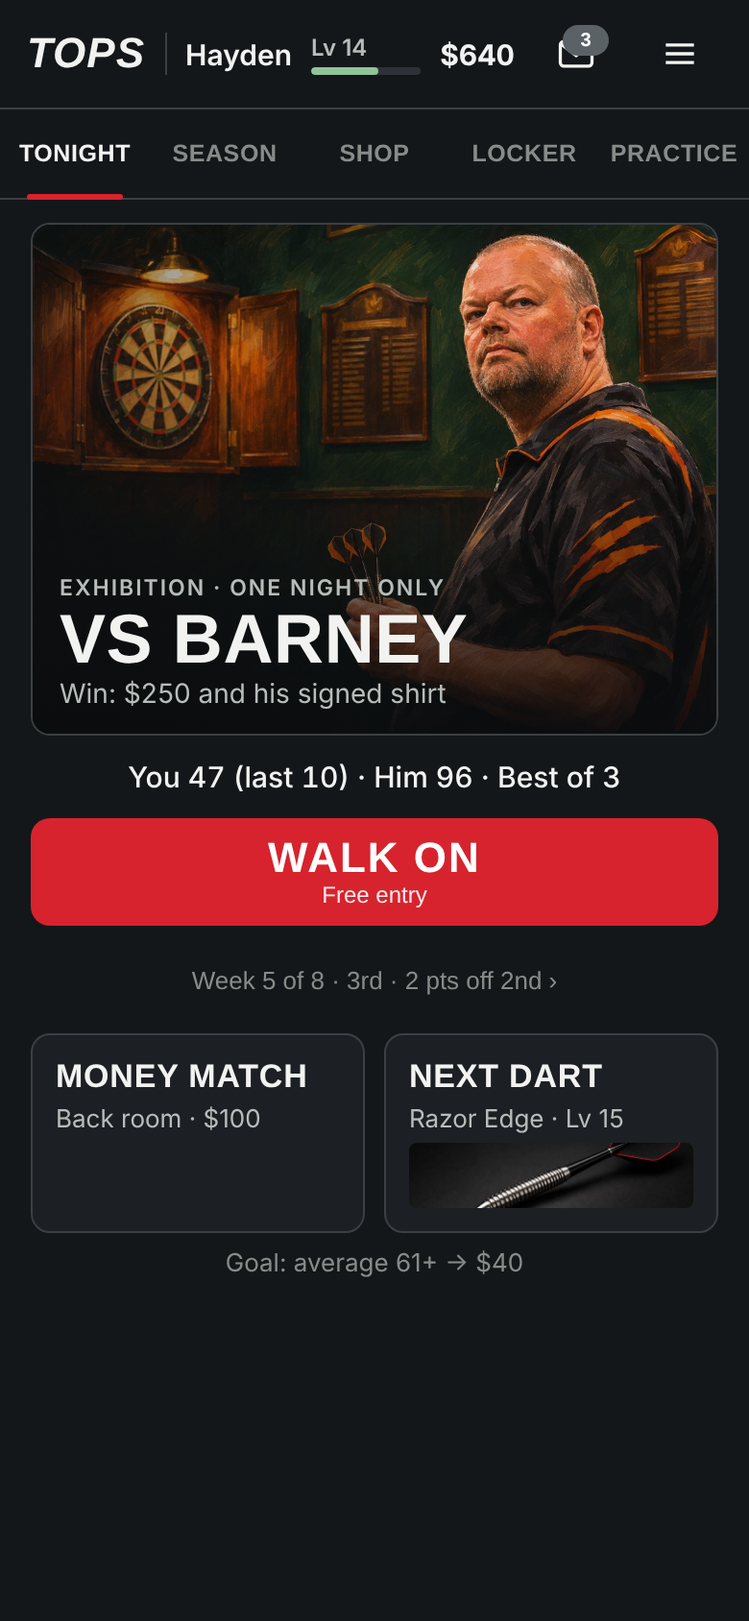
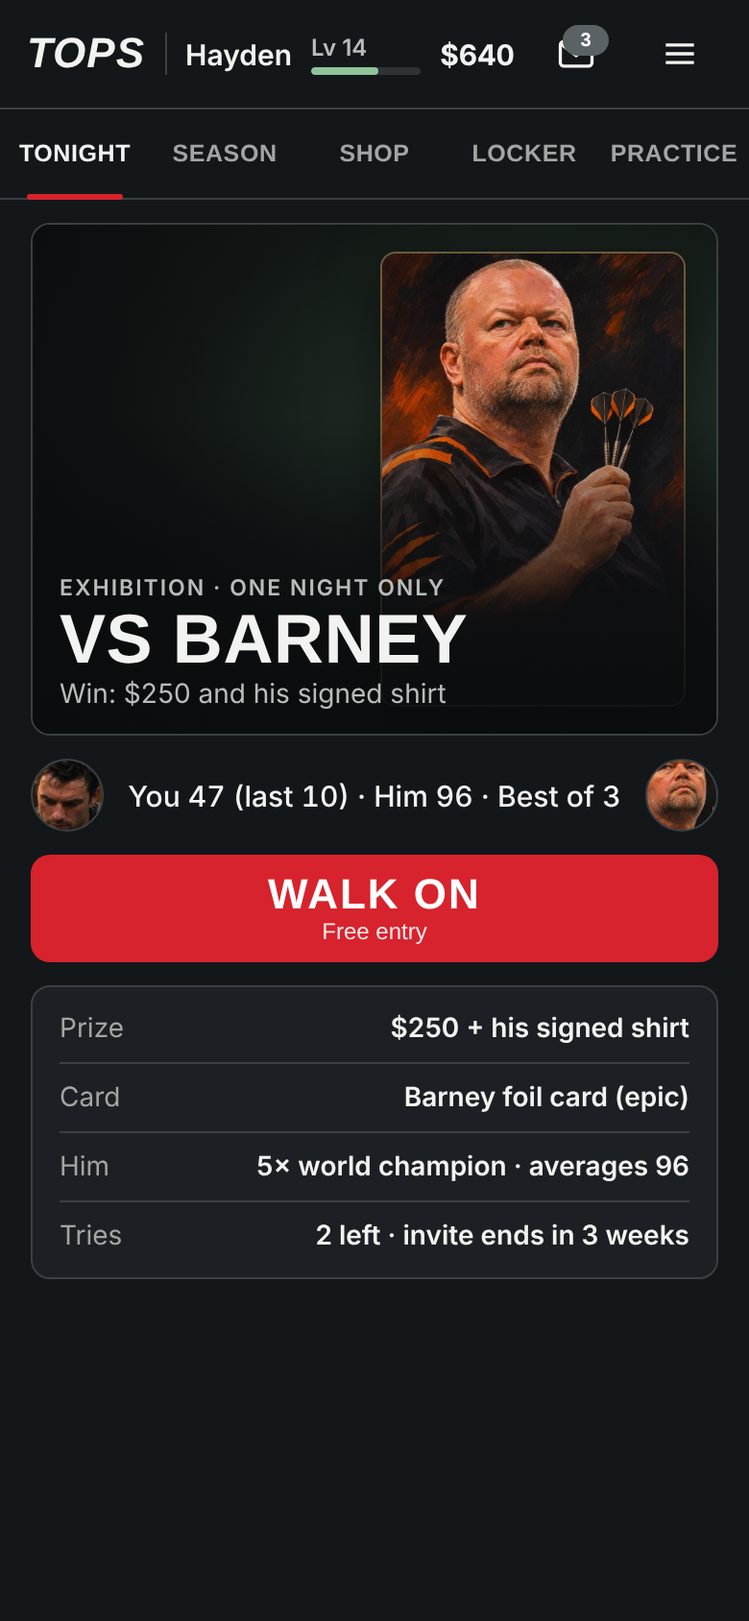
EXP-UX v6: ChatGPT r1 (8.1) fixes: researched real-dart product shots, compare vs equipped + EQUIPPED state, Locker opens on Loadout (level, stats, kit), exhibition-specific Tonight, player face in head-to-head, loss summary + improvement cue, reward count-up, ink3 lifted
Claude-Session: https://claude.ai/code/session_01WmQEKYuzjKWgLqY2q8YZP3

diff --git a/wip/ux/proto/index.html b/wip/ux/proto/index.html
@@ -6,7 +6,7 @@
 /* Layout: one phone (390 wide, 844 tall) centred on a dark desk; tier-2 calm frame: flat graphite panels, hairline borders,
    real game renders inside panel frames, red only on the one primary button and the active main tab. Single dark look by design. */
 :root{
-  --desk:#0b0d0f; --bg:#14171a; --panel:#1c2024; --panel2:#22272c; --line:#3a4043; --ink:#f2f3f1; --ink2:#b7bdb9; --ink3:#868d89;
+  --desk:#0b0d0f; --bg:#14171a; --panel:#1c2024; --panel2:#22272c; --line:#3a4043; --ink:#f2f3f1; --ink2:#b7bdb9; --ink3:#a0a6a3;
   --red:#d7232d; --red2:#b81c25; --good:#8fc49a; --badge:#5b6266;
   --display:"Barlow Condensed","Arial Narrow",Impact,sans-serif; --body:Inter,system-ui,-apple-system,"Segoe UI",Roboto,sans-serif;
   color-scheme:dark;
@@ -79,7 +79,7 @@ button.panel{color:var(--ink);font:inherit}
 .cmp{padding:10px 14px;display:flex;flex-direction:column;gap:6px}
 .cmp h3{margin:0;font-size:13px;color:var(--ink2);font-weight:600}
 .cmp div{display:flex;justify-content:space-between;font-size:14px;font-variant-numeric:tabular-nums}
-.up{color:var(--good);font-weight:700}.neutral{color:var(--ink3)}
+.up{color:var(--good);font-weight:700}.down{color:#e0a2a2;font-weight:700}.neutral{color:var(--ink3)}
 .strip{display:flex;align-items:center;gap:6px}
 .strip{gap:2px}.strip .arr{width:44px;height:78px;flex:0 0 44px;margin:0 -6px}
 .thumbs{display:flex;gap:8px;flex:1;min-width:0;overflow-x:auto;scroll-snap-type:x mandatory;scrollbar-width:none}
@@ -96,9 +96,9 @@ button.panel{color:var(--ink);font:inherit}
 .me .fig{position:absolute;right:6px;bottom:0;height:100%;aspect-ratio:4/5;background-size:contain;background-repeat:no-repeat;background-position:right bottom}
 .setbar{padding:10px 12px;display:flex;align-items:center;gap:10px;font-size:13px}
 .setbar .bar{flex:1}
-.packs{padding:8px 8px 8px 14px;display:flex;align-items:center;gap:10px}
+.packs{padding:14px;display:flex;flex-direction:column;align-items:stretch;gap:4px}
 .packs .t{font-family:var(--display);font-weight:800;font-size:20px;letter-spacing:.4px;flex:1}
-.packs .primary{width:112px;flex:0 0 112px;height:48px}
+.packs .primary{width:100%;flex:0 0 52px;height:52px;margin-top:8px}.packs .s{font-size:13px;color:var(--ink2)}
 .chips{display:flex;gap:8px;overflow-x:auto;padding-bottom:2px;scrollbar-width:none;margin-right:-16px;padding-right:24px;-webkit-mask-image:linear-gradient(90deg,#000 calc(100% - 20px),transparent);mask-image:linear-gradient(90deg,#000 calc(100% - 20px),transparent)}
 .chips::-webkit-scrollbar{display:none}
 .chips button{flex:0 0 auto;height:40px;padding:0 14px;border-radius:20px;border:1px solid var(--line);background:none;color:var(--ink2);font-size:13px;cursor:pointer}
@@ -129,7 +129,7 @@ button.panel{color:var(--ink);font:inherit}
 .th .tp{position:absolute;inset:4px 4px 22px;border-radius:5px}
 .r .tp{width:60px;height:30px;flex:0 0 60px}
 .res .lock{position:absolute;right:14px;top:0;bottom:0;width:132px;display:flex;flex-direction:column;justify-content:center;align-items:center;gap:4px;text-align:center}
-.res .lock small{font-size:18px;font-weight:600;letter-spacing:2px;text-transform:uppercase}
+.res .lock small{font-size:22px;font-weight:600;letter-spacing:2px;text-transform:uppercase}
 .res .lock b{font-family:var(--display);font-weight:800;font-size:56px;line-height:.9;font-variant-numeric:tabular-nums}
 .res .lock span{font-size:13px;color:var(--ink2)}
 .res.lost .lock small{color:var(--ink2)}
@@ -138,6 +138,24 @@ button.panel{color:var(--ink);font:inherit}
 .poster .pi{aspect-ratio:2/3;background-size:cover;background-position:50% 20%;position:relative}
 .poster .pt{position:absolute;left:0;right:0;bottom:0;padding:40px 16px 14px;background:linear-gradient(transparent,rgba(8,9,10,.92));display:flex;flex-direction:column;gap:2px}
 .poster .pb{padding:12px 14px 14px;display:flex;flex-direction:column;gap:8px}
+.lvp{padding:12px 14px;display:flex;flex-direction:column;gap:8px}
+.lvp .xp{display:flex;justify-content:space-between;font-size:14px;font-weight:600}
+.lvp .xp span+span{color:var(--ink2);font-weight:500;font-size:13px}
+.stats{padding:12px 14px;display:flex;flex-direction:column;gap:9px}
+.stats .sh{display:flex;justify-content:space-between;align-items:baseline}.stats .sh b{font-size:14px}.stats .sh span{font-size:13px;color:var(--good);font-weight:600}
+.sr{display:grid;grid-template-columns:92px 1fr 28px;align-items:center;gap:10px;font-size:14px}.sr b{text-align:right;font-variant-numeric:tabular-nums}.sr .bar{height:6px}
+button.panel.r{width:100%;text-align:left;cursor:pointer;min-height:56px}
+.r .sp small.lbl{display:block;font-size:12px;color:var(--ink3);margin-bottom:1px}
+.r .chev{color:var(--ink3);font-size:20px}
+.r .sw{width:60px;height:30px;flex:0 0 60px;border-radius:4px;background:linear-gradient(180deg,#2b2f33 0 44%,#d7232d 44% 52%,#2b2f33 52%)}
+.sub .dot{display:inline-block;width:7px;height:7px;border-radius:50%;background:var(--ink);margin-left:4px;vertical-align:2px}
+.lkv{display:flex;flex-direction:column;gap:12px}
+.h2h{display:flex;align-items:center;gap:10px}.h2h .line{flex:1;min-width:0}
+.face{width:36px;height:36px;flex:0 0 36px;border-radius:50%;background-size:cover;background-position:50% 50%;border:1px solid var(--line)}
+.exh{padding:4px 14px}.exh .er{display:flex;justify-content:space-between;gap:12px;padding:9px 0;font-size:14px}.exh .er+.er{border-top:1px solid var(--line)}.exh .er span{color:var(--ink3)}.exh .er b{font-weight:600;text-align:right}
+.inset{position:absolute;right:16px;top:14px;bottom:14px;aspect-ratio:2/3;background-size:cover;background-position:50% 20%;border-radius:8px;border:1px solid #6b5a3a;box-shadow:0 10px 30px rgba(0,0,0,.6);z-index:1}
+#tInset~.shade{z-index:2}#tInset~.txt{z-index:3}
+.mv{width:22px;flex:0 0 22px;text-align:center;color:var(--good);font-size:13px}.mv.dn{color:#e0a2a2}
 /* toast */
 .toast{position:absolute;left:16px;right:16px;bottom:24px;background:var(--panel2);border:1px solid var(--line);border-radius:10px;padding:12px 14px;font-size:13px;opacity:0;transform:translateY(8px);transition:.2s;pointer-events:none}
 .toast.on{opacity:1;transform:none}
@@ -176,11 +194,12 @@ button.panel{color:var(--ink);font:inherit}
   <!-- TONIGHT -->
   <section class="scr" data-scr="tonight">
     <div class="hero" style="height:265px">
+      <div class="inset" id="tInset" hidden style="background-image:url(img/g_exh_barney_poster.jpg)"></div>
       <div class="img photo" id="tImg" style="background-image:url(img/g_tonight_club.jpg);background-position:70% 30%"></div>
-      <div class="shade" style="background:linear-gradient(180deg,rgba(10,12,14,0) 30%,rgba(10,12,14,.92) 100%),linear-gradient(90deg,rgba(10,12,14,.55) 0%,rgba(10,12,14,0) 55%)"></div>
+      <div class="shade" style="background:linear-gradient(180deg,rgba(10,12,14,0) 38%,rgba(10,12,14,.6) 62%,rgba(10,12,14,.95) 100%),linear-gradient(90deg,rgba(10,12,14,.6) 0%,rgba(10,12,14,0) 50%)"></div>
       <div class="txt"><span class="kick" id="tKick">Club singles · Week 5 of 8</span><span class="h1" id="tOpp">vs Big Mal</span><span class="lead" id="tStake">Win: a place in the team</span></div>
     </div>
-    <div class="line" id="tForm">You 47 (last 10) · Him 42 · Best of 3</div>
+    <div class="h2h"><span class="face" style="background-image:url(img/g_face_me.jpg)" aria-hidden="true"></span><div class="line" id="tForm">You 47 (last 10) · Him 42 · Best of 3</div><span class="face" id="tFaceOpp" style="background-image:url(img/g_face_mal.jpg)" aria-hidden="true"></span></div>
     <button class="primary" type="button" id="walkOn"><b>Walk on</b><small id="tEntry">Entry $40</small></button>
     <button class="meta" type="button" data-go="season" id="tSeason">Week 5 of 8 · 3rd · 2 pts off 2nd ›</button>
     <div class="row2" id="tTiles">
@@ -188,6 +207,7 @@ button.panel{color:var(--ink);font:inherit}
       <button class="panel tile" type="button" data-go="shop"><span class="t">Next dart</span><span class="s">Razor Edge · Lv 15</span><span class="tp" style="background-image:url(img/g_d_razor.jpg)"></span></button>
     </div>
     <div class="meta" id="tGoal" style="margin-top:-4px;min-height:24px">Goal: average 61+ → $40</div>
+    <div class="panel exh" id="tExh" hidden><div class="er"><span>Prize</span><b>$250 + his signed shirt</b></div><div class="er"><span>Card</span><b>Barney foil card (epic)</b></div><div class="er"><span>Him</span><b>5× world champion · averages 96</b></div><div class="er"><span>Tries</span><b>2 left · invite ends in 3 weeks</b></div></div>
   </section>
 
   <!-- SEASON (out of this round's scope: a stub so the tab answers) -->
@@ -218,16 +238,29 @@ button.panel{color:var(--ink);font:inherit}
 
   <!-- LOCKER / CARDS -->
   <section class="scr" data-scr="locker" hidden>
-    <div class="sub" role="tablist" style="margin:0"><button aria-selected="false">Loadout</button><button aria-selected="true">Cards</button><button aria-selected="false">Stats</button><button aria-selected="false">Trophies</button></div>
+    <div class="sub" id="lkSub" role="tablist" style="margin:0"><button aria-selected="true" data-lk="load">Loadout</button><button aria-selected="false" data-lk="cards">Cards <i class="dot" aria-label="3 packs waiting"></i></button><button aria-selected="false">Stats</button><button aria-selected="false">Trophies</button></div>
     <div class="hero me" style="height:140px">
       <div class="img photo" style="background-image:url(img/g_locker.jpg);background-position:80% 35%"></div>
       <div class="shade" style="background:linear-gradient(90deg,rgba(10,12,14,.85) 0%,rgba(10,12,14,.2) 70%)"></div>
       <div class="txt" style="right:45%"><span class="h1" style="font-size:30px">Hayden</span><span class="lead">The Fill-in · Lv 14</span></div>
     </div>
-    <div class="panel packs" id="packRow"><span class="t" id="packTxt">3 packs waiting</span><button class="primary" type="button" id="openPack"><b>Open</b></button></div>
+    <div id="lkLoad" class="lkv">
+      <div class="panel lvp"><div class="xp"><span>Level 14 · The Fill-in</span><span>618 XP to 15</span></div><div class="bar"><i style="width:32%"></i></div></div>
+      <div class="panel stats"><div class="sh"><b>Your game</b><span>2 points to spend</span></div>
+        <div class="sr"><span>Scoring</span><div class="bar"><i style="width:58%"></i></div><b>20</b></div>
+        <div class="sr"><span>Finishing</span><div class="bar"><i style="width:52%"></i></div><b>18</b></div>
+        <div class="sr"><span>Control</span><div class="bar"><i style="width:55%"></i></div><b>19</b></div>
+        <div class="sr"><span>Composure</span><div class="bar"><i style="width:47%"></i></div><b>16</b></div></div>
+      <button class="panel r" type="button" data-go="shop" id="lkDart"><span class="tp" id="lkDartImg"></span><span class="sp"><small class="lbl">Darts</small><span id="lkDartN">Harrows Club Brass 22g</span></span><span class="chev">›</span></button>
+      <button class="panel r" type="button" id="lkShirt"><span class="sw"></span><span class="sp"><small class="lbl">Shirt</small>Charcoal, red stripe</span><span class="chev">›</span></button>
+      <button class="meta" type="button" id="lkToCards">3 packs waiting in Cards ›</button>
+    </div>
+    <div id="lkCards" class="lkv" hidden>
+    <div class="panel packs" id="packRow"><span class="t" id="packTxt">3 packs waiting</span><span class="s">Each pack holds 3 cards · Kiwi Pub Life 7/9</span><button class="primary" type="button" id="openPack"><b>Open a pack</b></button></div>
     <div class="panel setbar"><span>Closest set: Kiwi Pub Life</span><div class="bar"><i style="width:78%"></i></div><span style="font-variant-numeric:tabular-nums">7/9</span></div>
     <div class="chips" role="group" aria-label="Filter cards"><button aria-pressed="true">All · 37/142</button><button>Regulars</button><button>Venues</button><button>Moments</button><button>Disasters</button><button>Kit</button><button>House rules</button></div>
     <div class="grid" id="grid"></div>
+    </div>
   </section>
 
   <!-- PRACTICE (stub) -->
@@ -248,11 +281,11 @@ button.panel{color:var(--ink);font:inherit}
     </div>
     <div class="line" id="rLine">You 51 · Him 44 · Checkout 38%</div>
     <div class="rw">
-      <h3>Rewards</h3>
+      <h3 id="rHead">Rewards</h3>
       <div class="panel two"><div><span class="cash" id="rCash">+$55</span></div><div><div class="xp"><span id="rXp">+240 XP</span><span>Lv 14</span></div><div class="bar"><i style="width:78%"></i></div></div></div>
-      <div class="panel r"><span class="tp" style="background-image:url(img/g_d_razor.jpg)"></span><span class="sp" id="rWant">Razor Edge: $45 to go</span></div>
+      <div class="panel r" id="rWantRow"><span class="tp" id="rWantImg" style="background-image:url(img/g_d_razor.jpg)"></span><span class="sp" id="rWant">Razor Edge: $45 to go</span></div>
       <div class="panel r"><span class="sp">🂠 1 card pack</span><button class="ghost" type="button" id="rOpen">Open</button></div>
-      <div class="panel r"><span class="sp" id="rSeason">Now 2nd · top two go up</span></div>
+      <div class="panel r"><span class="mv" id="rMv">▲</span><span class="sp" id="rSeason">Now 2nd · top two go up</span></div>
     </div>
     <button class="meta" type="button" id="rMsgs" style="color:var(--ink2)">✉ 2 new · See all stats ›</button>
     <div class="pin"><button class="primary" type="button" id="cont"><b>Continue</b></button></div>
@@ -263,7 +296,7 @@ button.panel{color:var(--ink);font:inherit}
 
 <script>
 const $=s=>document.querySelector(s),$$=s=>[...document.querySelectorAll(s)];
-const st={bank:640,owned:{assassin:1},sel:'supergrip',packs:3,first:false,broke:false};
+const st={eq:'assassin',bank:640,owned:{assassin:1},sel:'supergrip',packs:3,first:false,broke:false};
 const DARTS=[
  {id:'assassin',n:'Harrows Club Brass 22g',line:'Brass starter set. Where everyone begins.',lv:1,price:0,img:'g_d_assassin.jpg',sc:0,co:0,w:22},
  {id:'supergrip',n:'Harrows Supergrip Ultra 22g',line:'Micro-grip tungsten. Holds in a sweaty hand.',lv:8,price:95,img:'g_d_supergrip.jpg',sc:2,co:3,w:22,isNew:1},
@@ -282,13 +315,17 @@ function show(tab){
   $$('#tabs button').forEach(b=>b.setAttribute('aria-selected',b.dataset.tab===tab));
   const s=$('.scr[data-scr="'+tab+'"]');if(s)s.scrollTop=0;
   if(tab==='shop')centerThumb();
+  if(tab==='result')animRes();
 }
+function animRes(){const rm=matchMedia('(prefers-reduced-motion:reduce)').matches;const c=$('#rCash'),x=$('#rXp'),b=$('.res .two .bar i');const C=+c.textContent.replace(/\D/g,''),X=+x.textContent.replace(/\D/g,'');if(rm){return;}b.style.transition='none';b.style.width='40%';const t0=performance.now();const f=t=>{const k=Math.min(1,(t-t0)/700),e=1-Math.pow(1-k,3);c.textContent='+$'+Math.round(C*e);x.textContent='+'+Math.round(X*e)+' XP';if(k<1)requestAnimationFrame(f);};requestAnimationFrame(f);requestAnimationFrame(()=>{b.style.transition='width .7s ease-out';b.style.width='78%';});}
 $$('#tabs button').forEach(b=>b.onclick=()=>show(b.dataset.tab));
 $$('[data-go]').forEach(b=>b.onclick=()=>show(b.dataset.go));
-$('#lvBtn').onclick=()=>show('locker');
+$('#lvBtn').onclick=()=>{show('locker');lkTab('load');};$('#lkToCards').onclick=()=>lkTab('cards');$('#lkShirt').onclick=()=>toast('Shirts: next round of the prototype.');
 $('#msgBtn').onclick=()=>{$('#msgN').hidden=true;$('#msgBtn').setAttribute('aria-label','Messages');toast('Messages: Big Mal says see you on the oche. Club secretary: subs due Friday.');};
 $('#menuBtn').onclick=()=>toast('Menu: settings, how to throw, credits. Not part of this prototype.');
-$$('.sub button').forEach(b=>b.onclick=()=>{if(b.getAttribute('aria-selected')==='true')return;toast(b.textContent+' comes in the next round of the prototype.');});
+$$('.sub button').forEach(b=>b.onclick=()=>{if(b.getAttribute('aria-selected')==='true')return;if(b.dataset.lk){lkTab(b.dataset.lk);return;}toast(b.textContent.trim()+' comes in the next round of the prototype.');});
+function lkTab(k){$$('#lkSub button').forEach(x=>x.setAttribute('aria-selected',x.dataset.lk===k));$('#lkLoad').hidden=k!=='load';$('#lkCards').hidden=k!=='cards';}
+function renderLoadout(){const d=DARTS.find(x=>x.id===st.eq);$('#lkDartImg').style.backgroundImage='url(img/'+d.img+')';$('#lkDartN').textContent=d.n;}
 $('#moneyTile').onclick=()=>toast('Money match: best of 1 in the back room, $100 to the winner.');
 // Tonight states
 function renderTonight(){
@@ -307,8 +344,8 @@ function renderResult(){const L=!!st.lost,E=!!st.exh;$('.res').classList.toggle(
   $('#rWho').textContent=L?'Lost':'Won';$('#rScore').textContent=L?'1–2':'2–1';$('#rVs').textContent='vs '+(E?'Barney':'Big Mal');
   $('#rLine').textContent=L?'You 41 · Him 44 · Checkout 22%':'You 51 · Him 44 · Checkout 38%';
   $('#rCash').textContent=L?'+$5':'+$55';$('#rXp').textContent=L?'+100 XP':'+240 XP';
-  $('#rWant').textContent=L?'Best visit 100 · keep going':'Razor Edge: $45 to go';$('#rSeason').textContent=L?'Now 4th · 2 pts off 2nd':'Now 2nd · top two go up';}
-function renderExh(){const E=!!st.exh;$('#tImg').style.backgroundImage='url(img/'+(E?'g_exh_barney_tonight.jpg':'g_tonight_club.jpg')+')';
+  $('#rWant').textContent=L?'Checkout 22% · practise doubles':'Razor Edge: $45 to go';$('#rHead').textContent=L?'Match summary':'Rewards';$('#rMv').textContent=L?'▼':'▲';$('#rMv').className='mv '+(L?'dn':'');$('#rWantImg').hidden=L;$('#rSeason').textContent=L?'Now 4th · 2 pts off 2nd':'Now 2nd · top two go up';}
+function renderExh(){const E=!!st.exh;$('#tImg').style.backgroundImage=E?'radial-gradient(ellipse at 75% 40%,#2a3a30 0%,#121815 55%,#0b0d0c 100%)':'url(img/g_tonight_club.jpg)';$('#tInset').hidden=!E;$('#tExh').hidden=!E;$('#tFaceOpp').style.backgroundImage='url(img/'+(E?'g_exh_barney_poster.jpg':'g_face_mal.jpg')+')';$('#tFaceOpp').style.backgroundPosition=E?'50% 18%':'50% 50%';$('#tFaceOpp').style.backgroundSize=E?'230%':'cover';if(E){$('#tTiles').hidden=true;$('#tGoal').hidden=true;$('#tSeason').hidden=true;}
   $('#tOpp').textContent=E?'vs Barney':'vs Big Mal';if(E){$('#tKick').textContent='Exhibition · one night only';$('#tStake').textContent='Win: $250 and his signed shirt';$('#tForm').textContent='You 47 (last 10) · Him 96 · Best of 3';$('#tEntry').textContent='Free entry';}}
 function poster(){const p=document.createElement('div');p.className='poster';p.innerHTML=`<div class="pc" role="dialog" aria-label="Exhibition invite"><div class="pi" style="background-image:url(img/g_exh_barney_poster.jpg)"><div class="pt"><span class="kick">Exhibition · Friday</span><span class="h1" style="font-size:34px">Barney is in town</span><span class="lead">Five-time world champion. Best of 3 at the Club.</span></div></div><div class="pb"><button class="primary" type="button" id="pGo"><b>Take him on</b></button><button class="link" type="button" id="pLater">Not tonight</button></div></div>`;$('#phone').appendChild(p);
   $('#pGo').onclick=()=>{p.remove();show('tonight');};$('#pLater').onclick=()=>{p.remove();st.exh=false;renderTonight();renderExh();};}
@@ -317,22 +354,23 @@ $$('.legend button').forEach(b=>b.onclick=()=>{const k=b.dataset.state;document.
   if(k==='lost'){show('result');}else{show('tonight');if(k==='exh')poster();}toast(b.textContent+' state');});
 // Shop
 function renderShop(){
-  const d=DARTS.find(x=>x.id===st.sel),owned=!!st.owned[d.id],locked=d.lv>LV,mine=DARTS.find(x=>x.id==='assassin');
+  const d=DARTS.find(x=>x.id===st.sel),owned=!!st.owned[d.id],locked=d.lv>LV,mine=DARTS.find(x=>x.id===st.eq),isEq=d.id===st.eq;
   $('#sImg').style.backgroundImage='url(img/'+d.img+')';$('#sImg').setAttribute('aria-label',d.n+' dart');{const sp=d.n.match(/^(Harrows|Red Dragon|Target|Shot|Winmau|Unicorn) (.*)$/);$('#sBrand').textContent=sp?sp[1]:'';$('#sName').textContent=sp?sp[2]:d.n;}$('#sLine').textContent=d.line;
-  $('#sBadge').textContent=owned?'OWNED':locked?'LOCKED · LV '+d.lv:(d.isNew?'NEW · LV '+d.lv:'LV '+d.lv);
-  const rows=owned&&d.id==='assassin'?[['Your current dart','','neutral']]:[['Scoring','+'+(d.sc-mine.sc),'up'],['Control','+'+(d.co-mine.co),'up']].concat(d.w===mine.w?[['Weight','Same, '+d.w+' g','neutral']]:[[d.w>mine.w?'Heavier':'Lighter',d.w+' g vs '+mine.w+' g','neutral']]);
-  $('#sCmp').innerHTML='<h3>vs your Club Brass</h3>'+rows.map(r=>`<div><span>${r[0]}</span><span class="${r[2]}">${r[1]}</span></div>`).join('');
+  $('#sBadge').textContent=isEq?'EQUIPPED':owned?'OWNED':locked?'LOCKED · LV '+d.lv:(d.isNew?'NEW · LV '+d.lv:'LV '+d.lv);
+  const dl=(a,b)=>{const v=a-b;return [(v>0?'+':v<0?'−':'±')+Math.abs(v),v>0?'up':v<0?'down':'neutral'];};const rows=isEq?[['This is your dart','','neutral']]:[['Scoring',...dl(d.sc,mine.sc)],['Control',...dl(d.co,mine.co)]].concat(d.w===mine.w?[['Weight','Same, '+d.w+' g','neutral']]:[[d.w>mine.w?'Heavier':'Lighter',d.w+' g vs '+mine.w+' g','neutral']]);
+  $('#sCmp').innerHTML='<h3>'+(isEq?'Equipped now':'vs your '+mine.n.replace(/^(Harrows|Red Dragon|Target|Shot|Winmau|Unicorn) /,''))+'</h3>'+rows.map(r=>`<div><span>${r[0]}</span><span class="${r[2]}">${r[1]}</span></div>`).join('');
   let a='';
-  if(owned)a=`<button class="primary" type="button" id="sEquip"><b>Equip</b></button>`;
+  if(isEq)a=`<div class="lockline"><b>Equipped for your next match</b><span>Pick another dart to compare</span></div>`;
+  else if(owned)a=`<button class="primary" type="button" id="sEquip"><b>Equip</b></button>`;
   else if(locked)a=`<div class="lockline"><b>Unlocks at level ${d.lv} · ${money(d.price)}</b><span>You're level ${LV}</span><button class="link" type="button" data-go2="tonight">Play to reach it →</button></div>`;
   else if(st.bank<d.price)a=`<div class="lockline"><b>${money(d.price)} · you have ${money(st.bank)}</b><span>${money(d.price-st.bank)} to go</span><button class="link" type="button" id="sTry">Try it in practice</button></div>`;
   else a=`<button class="primary" type="button" id="sBuy"><b>Buy · ${money(d.price)}</b></button><div class="meta" style="min-height:20px">${money(st.bank)} → ${money(st.bank-d.price)}</div><div style="text-align:center"><button class="link" type="button" id="sTry">Try it in practice</button></div>`;
   $('#sAct').innerHTML=a;
-  $('#sThumbs').innerHTML=DARTS.map(x=>`<button class="th ${x.lv>LV&&!st.owned[x.id]?'lock':''}" type="button" data-id="${x.id}" aria-pressed="${x.id===st.sel}" aria-label="${x.n}"><span class="tp" style="background-image:url(img/${x.img})"></span><small>${st.owned[x.id]?'✓ Owned':x.lv>LV?'🔒 Lv '+x.lv:money(x.price)}</small></button>`).join('');centerThumb();
+  $('#sThumbs').innerHTML=DARTS.map(x=>`<button class="th ${x.lv>LV&&!st.owned[x.id]?'lock':''}" type="button" data-id="${x.id}" aria-pressed="${x.id===st.sel}" aria-label="${x.n}"><span class="tp" style="background-image:url(img/${x.img})"></span><small>${x.id===st.eq?'● Equipped':st.owned[x.id]?'✓ Owned':x.lv>LV?'🔒 Lv '+x.lv:money(x.price)}</small></button>`).join('');centerThumb();
   $$('#sThumbs .th').forEach(b=>b.onclick=()=>{st.sel=b.dataset.id;renderShop();});
-  const buy=$('#sBuy');if(buy)buy.onclick=()=>{if(st.bank<d.price){renderShop();return;}st.owned[d.id]=1;st.bank-=d.price;$('#bank').textContent=money(st.bank);toast('Bought '+d.n+'. Equipped for your next match.');renderShop();};
+  const buy=$('#sBuy');if(buy)buy.onclick=()=>{if(st.bank<d.price){renderShop();return;}st.owned[d.id]=1;st.eq=d.id;st.bank-=d.price;$('#bank').textContent=money(st.bank);renderShop();renderLoadout();};
   const tr=$('#sTry');if(tr)tr.onclick=()=>toast('Free practice session with '+d.n+'. No XP or money from it.');
-  const eq=$('#sEquip');if(eq)eq.onclick=()=>toast(d.n+' equipped.');
+  const eq=$('#sEquip');if(eq)eq.onclick=()=>{st.eq=d.id;renderShop();renderLoadout();};
   $$('[data-go2]').forEach(b=>b.onclick=()=>show(b.dataset.go2));
 }
 const idx=()=>DARTS.findIndex(x=>x.id===st.sel);
@@ -349,5 +387,5 @@ $('#openPack').onclick=()=>{st.packs--;const c=CARDS.find(x=>!x[0]);if(c){c[0]='
 $('#rOpen').onclick=()=>{toast('Pack opened: The Chalk (duplicate, +10 XP)');$('#rOpen').disabled=true;$('#rOpen').textContent='Opened';};
 $('#rMsgs').onclick=()=>toast('Full stats: 3 tons, best visit 140, checkout 3 of 8.');
 $('#cont').onclick=()=>{show('tonight');toast('Next fixture: vs Shazza, Week 6 of 8');};
-renderTonight();renderShop();renderGrid();renderPacks();
+renderTonight();renderShop();renderGrid();renderPacks();renderLoadout();
 </script>

diff --git a/wip/ux/proto/shots.js b/wip/ux/proto/shots.js
@@ -6,8 +6,10 @@ const W = +(process.argv[2] || 390), H = +(process.argv[3] || 844);
   await p.goto('file://' + path.join(__dirname, 'index.html')); await p.waitForTimeout(800);
   for (const t of ['tonight', 'shop', 'locker']) { await p.evaluate(t => show(t), t); await p.waitForTimeout(300); await p.screenshot({ path: path.join(__dirname, `shot_${t}_${W}.png`) }); }
   await p.evaluate(() => { st.sel = 'zen'; renderShop(); show('shop'); }); await p.waitForTimeout(200); await p.screenshot({ path: path.join(__dirname, `shot_shoplocked_${W}.png`) });
-  await p.evaluate(() => show('result')); await p.waitForTimeout(300); await p.screenshot({ path: path.join(__dirname, `shot_result_${W}.png`) });
-  await p.evaluate(() => { st.lost=true; renderResult(); show('result'); }); await p.waitForTimeout(300); await p.screenshot({ path: path.join(__dirname, `shot_resultloss_${W}.png`) });
+  await p.evaluate(() => show('result')); await p.waitForTimeout(1200); await p.screenshot({ path: path.join(__dirname, `shot_result_${W}.png`) });
+  await p.evaluate(() => { show('locker'); lkTab('cards'); }); await p.waitForTimeout(300); await p.screenshot({ path: path.join(__dirname, `shot_cards_${W}.png`) });
+  await p.evaluate(() => { lkTab('load'); });
+  await p.evaluate(() => { st.lost=true; renderResult(); show('result'); }); await p.waitForTimeout(1200); await p.screenshot({ path: path.join(__dirname, `shot_resultloss_${W}.png`) });
   await p.evaluate(() => { st.lost=false; renderResult(); st.exh=true; renderTonight(); renderExh(); show('tonight'); }); await p.waitForTimeout(300); await p.screenshot({ path: path.join(__dirname, `shot_exhtonight_${W}.png`) });
   await p.evaluate(() => poster()); await p.waitForTimeout(300); await p.screenshot({ path: path.join(__dirname, `shot_exhposter_${W}.png`) });
   const ov = await p.evaluate(() => document.documentElement.scrollWidth > innerWidth); console.log('hscroll', ov); await b.close(); })();

diff --git a/wip/ux/ba/sheet.py b/wip/ux/ba/sheet.py
@@ -1,8 +1,8 @@
 # Hayden's before/after sheet: live 3.05 at 390 (left) vs prototype v5 (right), one row pair per screen
 import sys
 from PIL import Image, ImageDraw, ImageFont
-L='/home/claude/reswt/wip/ux/result/'; P='/home/claude/homewt/wip/ux/proto/'
-pairs=[('Tonight','live_tonight.png','shot_tonight_390.png'),('Shop','live_shop.png','shot_shop_390.png'),('Locker','live_locker.png','shot_locker_390.png'),
+L='/home/claude/homewt/wip/ux/ba/live/'; P='/home/claude/homewt/wip/ux/proto/'
+pairs=[('Tonight','live_tonight.png','shot_tonight_390.png'),('Shop','live_shop.png','shot_shop_390.png'),('Locker · Loadout','live_locker.png','shot_locker_390.png'),('Locker · Cards','live_cards.png','shot_cards_390.png'),
        ('Result · win','before_a.png','shot_result_390.png'),('Result · loss','liveloss_a.png','shot_resultloss_390.png'),
        ('Exhibition poster (Barney test)','live_poster.png','shot_exhposter_390.png'),('Exhibition Tonight (Barney test)','live_tonight.png','shot_exhtonight_390.png')]
 try: F=ImageFont.truetype('/usr/share/fonts/truetype/dejavu/DejaVuSans-Bold.ttf',26); f=ImageFont.truetype('/usr/share/fonts/truetype/dejavu/DejaVuSans.ttf',20)
@@ -11,7 +11,7 @@ W,H=390,844; cw=2*W+40; cols=4; rows=(len(pairs)+cols-1)//cols
 sheet=Image.new('RGB',(cols*(cw+40)+40,rows*(H+90)+40),(10,11,12)); d=ImageDraw.Draw(sheet)
 for i,(t,a,b) in enumerate(pairs):
   x=40+(i%cols)*(cw+40); y=40+(i//cols)*(H+90)
-  d.text((x,y),t,font=F,fill=(240,240,236)); d.text((x,y+34),'BEFORE · live 3.05',font=f,fill=(150,156,160)); d.text((x+W+40,y+34),'AFTER · prototype v5',font=f,fill=(215,35,45))
+  d.text((x,y),t,font=F,fill=(240,240,236)); d.text((x,y+34),'BEFORE · live 3.05',font=f,fill=(150,156,160)); d.text((x+W+40,y+34),'AFTER · prototype v6',font=f,fill=(215,35,45))
   for j,src in enumerate([L+a,P+b]):
     im=Image.open(src).convert('RGB'); im=im.resize((W,int(im.size[1]*W/im.size[0]))).crop((0,0,W,H)); sheet.paste(im,(x+j*(W+40),y+64))
 sheet.save(sys.argv[1],quality=86); print(sheet.size)

diff --git a/wip/ux/proto/critique_v5.md b/wip/ux/proto/critique_v5.md
@@ -1,0 +1,32 @@
+## Design Critique: TOPS career screens, prototype v5 (generated photography, Hayden 17:09)
+
+### Overall impression
+The photography fixes the main complaint: every screen now opens on a real-feeling person in a real-feeling room, and the set reads as one shoot (same grade, same green club, same man). The cost is that what you see in the menus no longer matches what you see in a match (our 3D figures and rooms).
+
+### Before vs after (what we gain, what we lose)
+| Screen | Gain | Lose |
+|---|---|---|
+| Tonight | Opponent you'd believe exists; one clear Walk on; calm red | Live game's green-lime brand colour and the big "FILL-IN" chapter title; the card-picks tile (moves to Locker) |
+| Shop | A dart you'd want to buy; brand split from the name; "vs your dart" up front | The live screen's 5 stat bars (only the changes now); Setup/Gear tabs become Shafts & flights / Shirts |
+| Locker | Player portrait with mood; collection-first | The big LV number and stat bars on landing (move to Stats sub-tab) |
+| Result | One screen, victory or defeat felt in the photo; one Continue | The animated cash/XP count-up and level-up stage (to keep in the build); "Match details" |
+| Exhibition | Barney recognisable at a glance | Painted style differs from the photo set (deliberate: marks a guest star) |
+
+### Usability
+| Finding | Severity | Recommendation |
+|---|---|---|
+| Menu photos don't match the in-match 3D look | 🟡 Moderate | Accept for menus (Hayden's call); keep the walk-on and match unchanged; say so in the release note |
+| Shop hero crops the flight on some darts | 🟢 Minor | Generate with more top margin, or per-dart background position |
+| Player's face differs slightly between images | 🟢 Minor | Lock a reference image and regenerate with it attached for the build set |
+
+### Visual hierarchy
+- First look: the face, then the title, then the red primary, on every screen. Correct.
+- Text over images sits on dark gradients; contrast holds at 390 and 360.
+
+### Accessibility
+- Body text on gradients ≥ 4.5:1 in all shots checked; primaries 56 px; thumbnails 78 px.
+
+### Priority recommendations
+1. Lock the player reference and regenerate the build set from it (face consistency).
+2. Per-tier Tonight images (6 more) before slice 2.
+3. Barney style: keep painted for legends only, applied to every legend so it becomes a rule, not an exception.
